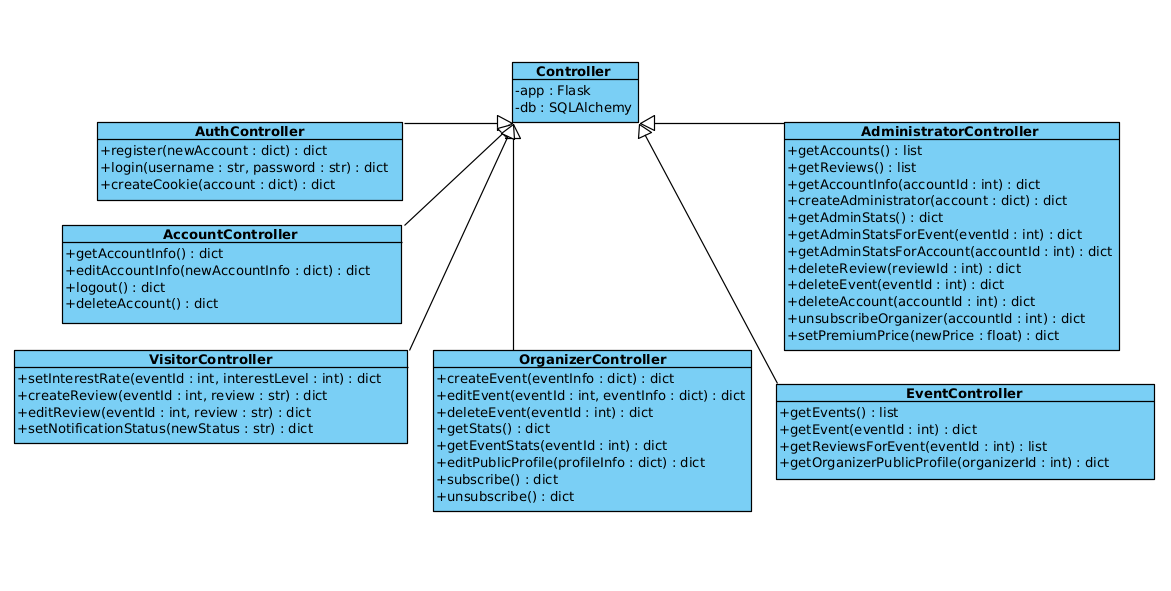
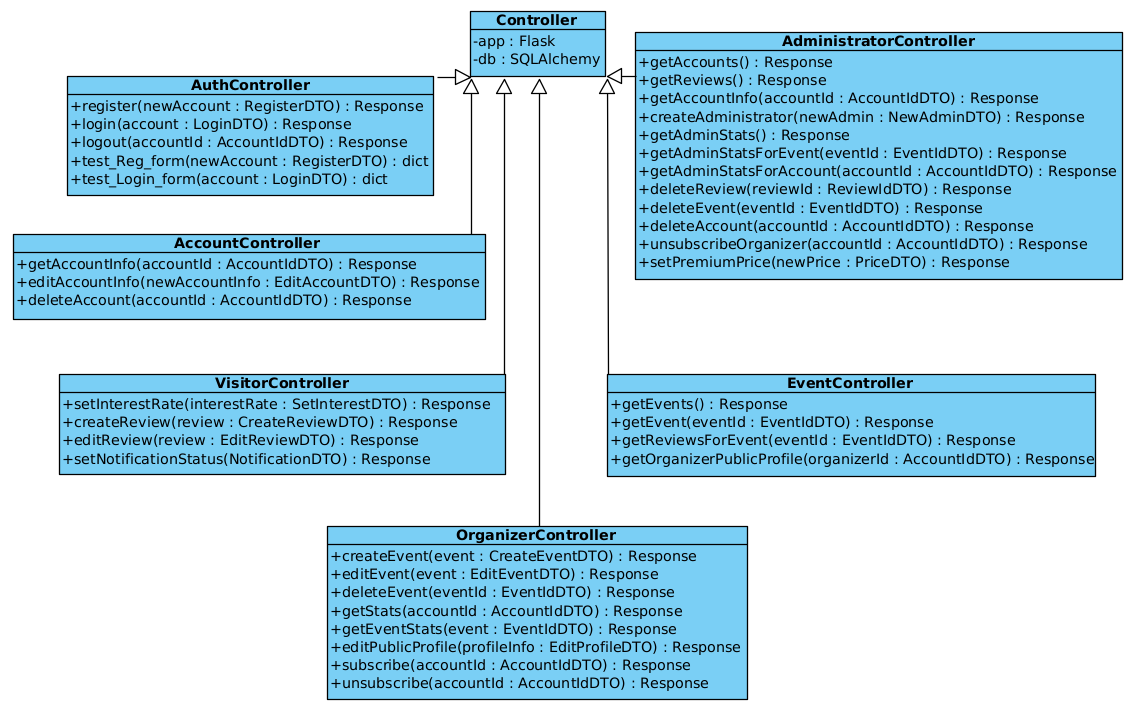
FInish DTO implementation and add small patch

diff --git a/dokumentacija/Dodatak.tex b/dokumentacija/Dodatak.tex
@@ -52,6 +52,26 @@
 					\item  diskusija o modeliranju baze podataka
 				\end{packed_item}
 			\end{packed_item}
+
+			\item  sastanak
+			\item[] \begin{packed_item}
+				\item Datum: 9. studenoga 2023.
+				\item Prisustvovali: L. Miličević, M. Papak, F. Aleksić, D. Huljev, S. Đelekovčan, D. Sviličić, E. Pužar
+				\item Teme sastanka:
+				\begin{packed_item}
+					\item  sastanak i diskusija s asistentom
+				\end{packed_item}
+			\end{packed_item}
+
+			\item  sastanak
+			\item[] \begin{packed_item}
+				\item Datum: 12. studenoga 2023.
+				\item Prisustvovali: L. Miličević, M. Papak, F. Aleksić, D. Huljev, S. Đelekovčan, D. Sviličić, E. Pužar
+				\item Teme sastanka:
+				\begin{packed_item}
+					\item  zajednička implementacija frontend dijela generičkih funkcionalnosti
+				\end{packed_item}
+			\end{packed_item}
 			
 			%
 			
@@ -79,19 +99,19 @@
 				Upravljanje projektom 		& 3 &  &  &  &  &  & \\ 
 				Opis projektnog zadatka 	& 3 &  &  &  &  &  & \\ 
 				
-				Funkcionalni zahtjevi       &  &  &  &  &  &  &  \\ 
-				Opis pojedinih obrazaca 	&  &  &  &  &  &  &  \\ 
-				Dijagram obrazaca 			&  &  &  &  &  &  &  \\ 
-				Sekvencijski dijagrami 		&  &  &  &  &  &  &  \\ 
+				Funkcionalni zahtjevi       &  & 4 & 3 & 2 &  & 3 & 3 \\ 
+				Opis pojedinih obrazaca 	&  & 3 & 3 & 3 &  & 2 & 3 \\ 
+				Dijagram obrazaca 			&  & 3 & 2 & 2 &  & 1 & 2 \\ 
+				Sekvencijski dijagrami 		&  & 1 &  &  &  & 4 & 2 \\ 
 				Opis ostalih zahtjeva 		& 0.5 &  &  &  &  &  &  \\ 
 
-				Arhitektura i dizajn sustava	 & 2 &  &  &  &  &  &  \\ 
-				Baza podataka				&  &  &  &  &  &  &   \\ 
-				Dijagram razreda 			&  &  &  &  &  &  &   \\ 
-				Dijagram stanja				&  &  &  &  &  &  &  \\ 
-				Dijagram aktivnosti 		&  &  &  &  &  &  &  \\ 
-				Dijagram komponenti			&  &  &  &  &  &  &  \\ 
-				Korištene tehnologije i alati 		&  &  &  &  &  &  &  \\ 
+				Arhitektura i dizajn sustava	& 2 &  &  &  &  &  &  \\ 
+				Baza podataka					&  &  &  &  & 8 &  &   \\ 
+				Dijagram razreda 				& 6 &  &  &  &  &  &   \\ 
+				Dijagram stanja					&  &  &  &  &  &  &  \\ 
+				Dijagram aktivnosti 			&  &  &  &  &  &  &  \\ 
+				Dijagram komponenti				&  &  &  &  &  &  &  \\ 
+				Korištene tehnologije i alati 		&  &  &  &  &  & 2 &  \\ 
 				Ispitivanje programskog rješenja 	&  &  &  &  &  &  &  \\ 
 				Dijagram razmještaja			&  &  &  &  &  &  &  \\ 
 				Upute za puštanje u pogon 		&  &  &  &  &  &  &  \\  
@@ -99,12 +119,10 @@
 				Zaključak i budući rad 		&  &  &  &  &  &  &  \\  
 				Popis literature 			&  &  &  &  &  &  &  \\  
 				&  &  &  &  &  &  &  \\ \hline 
-				\textit{Dodatne stavke kako ste podijelili izradu aplikacije} 			&  &  &  &  &  &  &  \\ 
-				\textit{npr. izrada početne stranice} 				&  &  &  &  &  &  &  \\  
-				\textit{izrada baze podataka} 		 			&  &  &  &  &  &  & \\  
-				\textit{spajanje s bazom podataka} 							&  &  &  &  &  &  &  \\ 
-				\textit{back end} 							&  &  &  &  &  &  &  \\  
-				 							&  &  &  &  &  &  &\\ 
+				Inciijalno postavljanje frontenda aplikacije 			& 4 &  &  &  &  &  &  \\  
+				Inicijalno postavljanje backenda aplikacije 			& 1 &  &  &  & 6 &  &  \\  
+				Generičke funkcionalnosti - Login i Registracija 		& 5 & & 1 & 1 & 11 & 1 & 1 \\  
+				Puštanje aplikacije u pogon 							& 4 &  &  &  &  &  &  \\  
 			\end{longtblr}
 					
 					

diff --git a/dokumentacija/Arhitektura.tex b/dokumentacija/Arhitektura.tex
@@ -305,16 +305,23 @@
 			
 			\textit{}
 
-			Na slikama 4.3 i 4.4 prikazani su dijagrami razreda za podsustave u backend dijelu arhitekture. Na slici 4.3. prikazani su razredi koji nasljeđuju Controller razred. Metode tih razreda koriste Model razrede za dohvat i spremanje podataka. Metode u razredima Controller vraćaju JSON datoteke u obliku HTML status koda i podatkovnog dijela. Na slici 4.4. prikazani su razredi koji nasljeđuju Model razred i predstavljaju (modeliraju) entitete baze podataka.
+			Na slikama 4.2, 4.3 i 4.4 prikazani su dijagrami razreda za podsustave u backend dijelu arhitekture. Na slici 4.3. prikazani su razredi koji nasljeđuju Controller razred. Metode tih razreda koriste Model razrede za dohvat i spremanje podataka. Metode u razredima Controller vraćaju JSON datoteke u obliku HTML status koda i podatkovnog dijela. Na slici 4.4 prikazani su Data Transfer objekti. Na slici 4.5. prikazani su razredi koji nasljeđuju Model razred i predstavljaju (modeliraju) entitete baze podataka.
 			
 			Zbog lakše organizacije i vidljivosti dijagrama razreda, razredi su podijeljeni u više dijagrama. Razredi su grupirani prema sličnim razinama apstrakcije i srodnim funkcionalnostima u arhitekturi MVC.
 			
-			\newpage
-
 			\begin{figure}[htbp]
 				\centering
 				\includegraphics[width=1\textwidth]{dijagrami/dijagram_mvc_controllers.png}
 				\caption{Dijagram klasa, dio Controllers}
+			\label{fig:my_image}
+			\end{figure}
+
+			\newpage
+
+			\begin{figure}[htbp]
+				\centering
+				\includegraphics[width=1\textwidth]{dijagrami/dijagram_mvc_dto.png}
+				\caption{Dijagram klasa, dio DTO}
 			\label{fig:my_image}
 			\end{figure}
 

diff --git a/dokumentacija/Dnevnik_promjena_dokumentacije.tex b/dokumentacija/Dnevnik_promjena_dokumentacije.tex
@@ -49,9 +49,11 @@
 			0.6 & Entiteti baze podataka	& Stjepan Đelekovčan & 3.11.2023.	\\[3pt] \hline 
       		0.7 & Obrasci uporabe 17-25 & Mate Papak & 3.11.2023.	\\[3pt] \hline 
 			0.8 & Arhitektura i dizajn sustava - opis i dijagrami razreda & Luka Miličević & 6.11.2023.	\\[3pt] \hline 
-			0.9 & Sekvencijski dijagram UC1 & Domagoj Sviličić & 9.11.2023.	\\[3pt] \hline
-			0.9 & Sekvencijski dijagram UC12 & Domagoj Sviličić & 11.11.2023.	\\[3pt] \hline  
-			\textbf{1.0} & Verzija samo s bitnim dijelovima za 1. ciklus & * & x.x.2023. \\[3pt] \hline 
+			0.9 & Sekvencijski dijagram UC1 i UC12 & Domagoj Sviličić & 11.11.2023.	\\[3pt] \hline
+			0.10 & Dorada relacijskog dijagrama	& Stjepan Đelekovčan & 12.11.2023.	\\[3pt] \hline 
+			0.11 & Ispravak UC dijagrama & Duje Huljev & 12.11.2023.	\\[3pt] \hline  
+			0.12 & Dorada dijagrama klasa - DTO i Controllers & Luka Miličević & 14.11.2023.	\\[3pt] \hline  
+			\textbf{1.0} & Verzija samo s bitnim dijelovima za 1. ciklus & * & 17.11.2023. \\[3pt] \hline 
 			&  &  & \\[3pt] \hline	
 		\end{longtblr}
 	

diff --git a/dokumentacija/PROGI_ProjektnaDokumentacija.tex b/dokumentacija/PROGI_ProjektnaDokumentacija.tex
@@ -104,7 +104,7 @@
 			
 			
 			\vspace*{\stretch{1.0}}
-			Datum predaje: \textit{$<$dan$>$. $<$mjesec$>$. $<$godina$>$.}\\
+			Datum predaje: \textit{17. 11. 2023.}\\
 	
 			\vspace*{\stretch{4.0}}
 			
